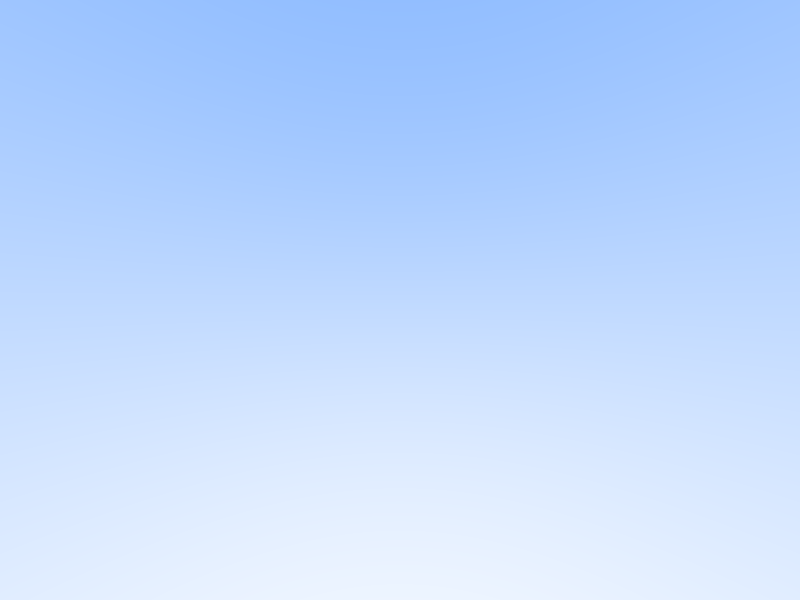
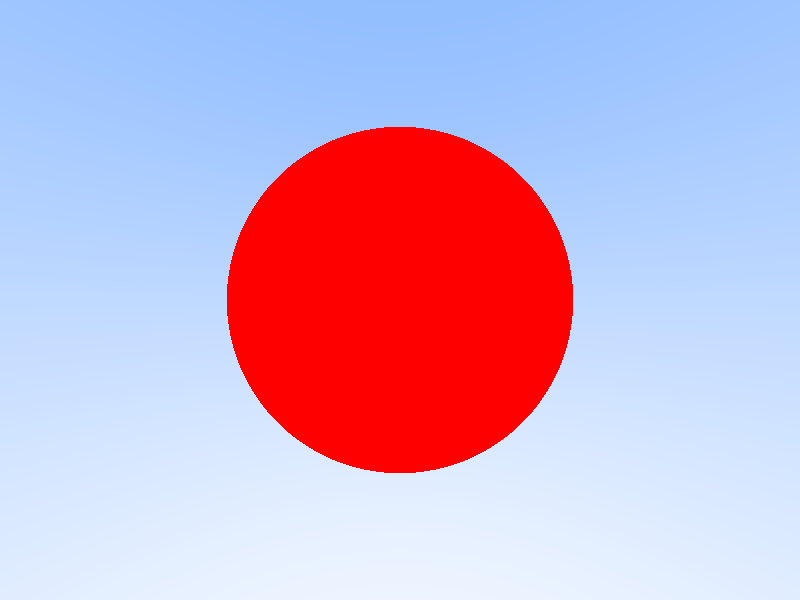
Add our first sphere

Changed region(s): [[0.2812, 0.21, 0.7188, 0.81]]

diff --git a/src/main.rs b/src/main.rs
@@ -1,7 +1,40 @@
 use glam::{DVec3, UVec2};
 use image::ImageBuffer;
-use pt::ray::Ray;
 
+/* Structure to represent a Ray */
+pub struct Ray {
+  pub origin: DVec3,
+  pub direction: DVec3,
+}
+
+impl Ray {
+  pub fn new(origin: DVec3, direction: DVec3) -> Ray {
+    Ray { origin, direction }
+  }
+
+  pub fn at(&self, t: f64) -> DVec3 {
+    self.origin + self.direction * t
+  }
+}
+
+/* Structures to represent Objects */
+pub struct Intersection {
+  pub location: DVec3,
+  pub normal: DVec3,
+  pub t: f64
+}
+
+fn hit_sphere(center: DVec3, radius: f64, ray: &Ray) -> bool {
+  let oc: DVec3 = center - ray.origin;
+  let a: f64 = ray.direction.dot(ray.direction);
+  let b: f64 = -2.0 * ray.direction.dot(oc);
+  let c: f64 = oc.dot(oc) - radius * radius;
+  let discriminant: f64 = b * b - 4.0 * a * c;
+
+  return discriminant >= 0.0;
+}
+
+/* Set-up Scene and render Image */
 fn main() {
   // Create Image
   let dimensions: UVec2 = UVec2::new(800, 600);
@@ -21,13 +54,18 @@ fn main() {
   // Write a gradient
   for y in 0..dimensions.y {
     for x in 0..dimensions.x {
-      let ray:Ray = Ray::new(
+      let ray: Ray = Ray::new(
         center, 
         center - (upper_left + (x as f64 * delta_u) + (y as f64 * delta_v))
       );
       
-      let a: f64 = 0.5 * (ray.direction.normalize().y + 1.0);
-      let color: DVec3 = (a)*DVec3::new(1.0, 1.0, 1.0) + (1.0-a)*DVec3::new(0.5, 0.7, 1.0);
+      let color: DVec3;
+      if hit_sphere(DVec3::new(0.0, 0.0, -1.0), 0.5, &ray) {
+        color = DVec3::new(255.0, 0.0, 0.0);
+      } else {
+        let a: f64 = 0.5 * (ray.direction.normalize().y + 1.0);
+        color = (a)*DVec3::new(1.0, 1.0, 1.0) + (1.0-a)*DVec3::new(0.5, 0.7, 1.0);
+      }
 
       let r: u8 = (255.99 * color.x).clamp(0.0, 255.0) as u8;
       let g: u8 = (255.99 * color.y).clamp(0.0, 255.0) as u8;
